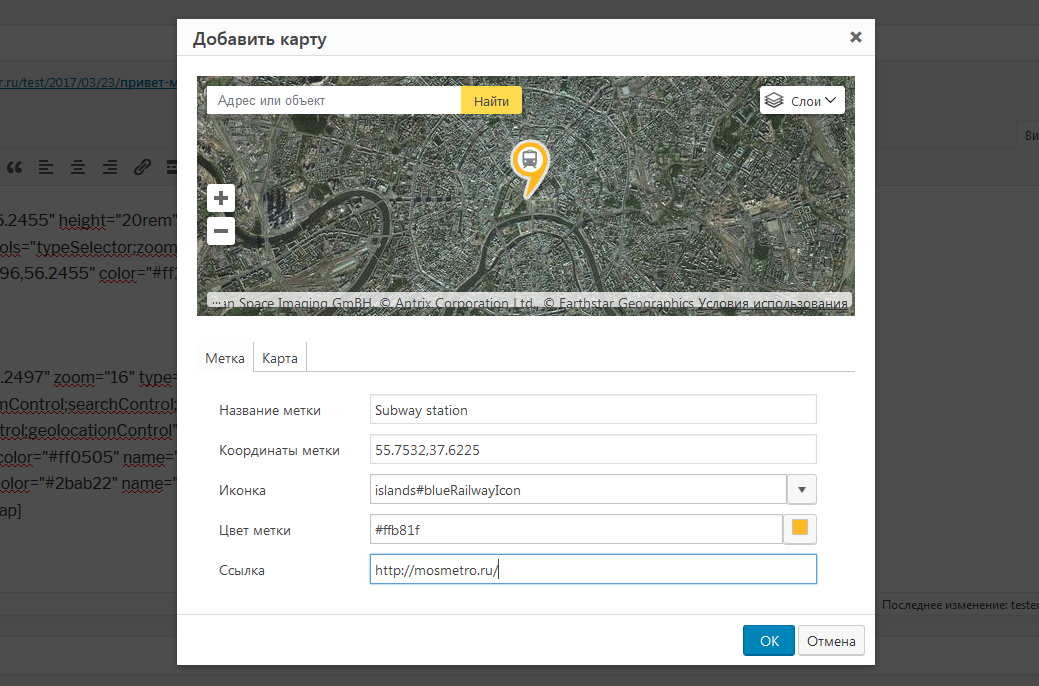
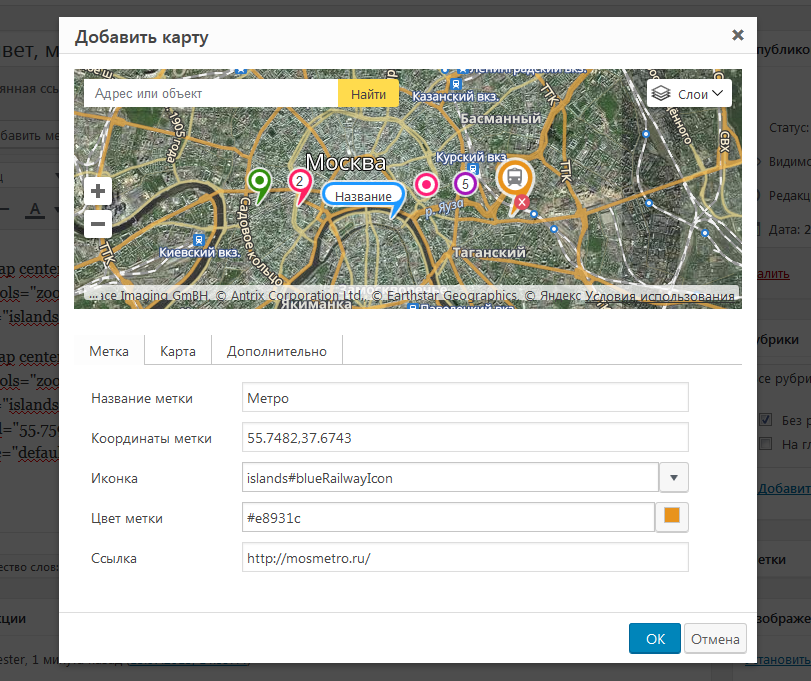
v 0.4.1

diff --git a/trunk/js/btn.js b/trunk/js/btn.js
@@ -1,4 +1,4 @@
-var script = document.createElement('script');
+ var script = document.createElement('script');
     script.src = "https://api-maps.yandex.ru/2.1/?lang="+tinymce.util.I18n.getCode();    
     script.setAttribute('type', 'text/javascript');
     document.getElementsByTagName('head')[0].appendChild(script);
@@ -69,7 +69,14 @@ var script = document.createElement('script');
             ym[mapselector].wheelzoom='scrollzoom="0"';
 
         }
-
+        
+        if ($("#mapcontainer").val()!==undefined) {
+        	if ($("#mapcontainer").val()!=="") {
+	            ym[mapselector].container='container="'+$("#mapcontainer").val()+'"';
+	            console.log($("#mapcontainer").val());
+        	}
+        }
+        
         ym[mapselector].zoom=mapzoom;
         ym[mapselector].center=[coordaprox(mapcenter)];
         ym[mapselector].maptype=maptype;       
@@ -178,12 +185,15 @@ var script = document.createElement('script');
         //url argument holds the absolute url of our plugin directory
         init : function(ed, url) {
 
+
+
             //add new button    
             ed.addButton("yamap", {
                 title : yamap_object.YaMap,
                 //cmd : "yamap_command",
                 type: 'menubutton',
                 plugins: 'colorpicker',
+
                 image : url+ "/img/placeholder.svg",
                 menu: [
                 {
@@ -423,7 +433,6 @@ var script = document.createElement('script');
                         width : 700,
                         height : 560, 
 
-
                         body: [
                          {
                         type   : 'container',
@@ -554,7 +563,7 @@ var script = document.createElement('script');
                                                 id     : 'ctrlhelper',                        
                                                 minWidth : 598,   
                                                 html   : '<div id="addcontrol" style="text-align: right;"><a data-control="typeSelector">'+yamap_object.type+'</a>, <a data-control="zoomControl">'+yamap_object.zoom+'</a>, <a data-control="searchControl">'+yamap_object.search+'</a>, <a data-control="routeButtonControl">'+yamap_object.route+'</a>, <a data-control="rulerControl">'+yamap_object.ruler+'</a>, <a data-control="trafficControl">'+yamap_object.traffic+'</a>, <a data-control="fullscreenControl">'+yamap_object.fullscreen+'</a>, <a data-control="geolocationControl">'+yamap_object.geolocation+'</a></div>'
-                                                },
+                                                },                                                
                                                 {
                                                     type: 'checkbox',
                                                     checked: true,
@@ -564,6 +573,43 @@ var script = document.createElement('script');
                                                     onaction: mapdatechange(),
 
                                                 },
+                                                {
+                                                    type: 'textbox',
+                                                    name: 'mapcontainer',
+                                                    label: yamap_object.MapContainerID,
+                                                    id: 'mapcontainer',
+                                                    value: '', 
+                                                    tooltip: yamap_object.MapContainerIDTip,
+                                                    onaction: mapdatechange(),
+                                                },
+                                                ]
+                                        },
+
+
+                                     
+
+
+                                    ]
+
+                                },
+                                {
+                                    type: 'panel',
+                                    title: yamap_object.Extra,
+                                    items: [
+                                        {
+                                            type: 'form',
+                                            name: 'form2',
+                                            minWidth : 598,
+
+                                            items: [
+                                                {
+                                                type   : 'container',
+                                                name   : 'addcontrol',
+                                                                       
+                                                minWidth : 598,   
+                                                html   : yamap_object.ExtraHTML,
+                                            },
+                                                
                                                 ]
                                         },
 
@@ -584,13 +630,7 @@ var script = document.createElement('script');
                             markchange();
                             var dialogArguments = ed.windowManager.getParams();
 
-                             if(e.data.scrollZoom === false) {
-                                scrollzoom=' scrollzoom="0"';
-                                
-                             } 
-                             else {
-                                scrollzoom='';
-                             } 
+                             
 
                             contentplacemarks = ''; 
                             yamapnumber='map1'; 
@@ -599,7 +639,7 @@ var script = document.createElement('script');
 
                             } 
                             
-                            ed.insertContent( '&#91;yamap center="' + ym[yamapnumber].center + '" height="' + ym[yamapnumber].height + '" zoom="' + ym[yamapnumber].zoom + '" ' + ym[yamapnumber].wheelzoom + ' type="' + ym[yamapnumber].maptype + '" controls="' + ym[yamapnumber].ctrl + '"&#93; '+contentplacemarks+' &#91;/yamap&#93;');
+                            ed.insertContent( '&#91;yamap center="' + ym[yamapnumber].center + '" height="' + ym[yamapnumber].height + '" zoom="' + ym[yamapnumber].zoom + '" ' + ym[yamapnumber].wheelzoom + ym[yamapnumber].container + ' type="' + ym[yamapnumber].maptype + '" controls="' + ym[yamapnumber].ctrl + '"&#93; '+contentplacemarks+' &#91;/yamap&#93;');
                         }
                     });
                 mapdatechange();

diff --git a/trunk/yamap.php b/trunk/yamap.php
@@ -5,7 +5,7 @@
  * Plugin URI:  www.yhunter.ru/portfolio/dev/yamaps/
  * Author URI:  www.yhunter.ru
  * Author:      yhunter
- * Version:     0.4.0
+ * Version:     0.4.1
  *
  *
  * License:     GPL2
@@ -73,12 +73,24 @@ function yaplacemark_func($atts) {
                             });  
 	';
 
-	if (trim($atts["url"])<>"") {
-		$yaplacemark.=' 
-			placemark'.$yaplacemark_count.'.events.add("click", function () {
-                location.href="'.$atts["url"].'";
-            });
-		';
+	$atts["url"]=trim($atts["url"]);
+	if (($atts["url"]<>"")and($atts["url"]<>"0")) {
+		$marklink=$atts["url"];
+		settype($marklink, "integer");
+		if ($marklink<>0) {
+			$marklink=get_the_permalink($atts["url"]);
+		}
+		else {
+			$marklink=$atts["url"];
+		}
+
+
+			$yaplacemark.=' 
+				placemark'.$yaplacemark_count.'.events.add("click", function () {
+	                location.href="'.$marklink.'";
+	            });
+			';
+
 	}
 	
 
@@ -95,6 +107,7 @@ function yamap_func($atts, $content){
 		'height' => '20rem',
 		'controls' => '',
 		'scrollzoom' => '1',
+		'container' => '',
 
 	), $atts );
 	global $yaplacemark_count;
@@ -118,13 +131,23 @@ function yamap_func($atts, $content){
 	
 	$placemarkscode=str_replace("&nbsp;", "", strip_tags($content));
 
+	$atts["container"]=trim($atts["container"]);
+	if ($atts["container"]<>"") {
+		$mapcontainter=$atts["container"];
+		$mapcontainter=str_replace("#", "", $mapcontainter);
+	}
+	else {
+		$mapcontainter='yamap'.$maps_count;
+	}
+	
+
     $yamap.='
 
 						<script type="text/javascript">
                         ymaps.ready(init);
                  
                         function init () {
-                            var myMap'.$maps_count.' = new ymaps.Map("yamap'.$maps_count.'", {
+                            var myMap'.$maps_count.' = new ymaps.Map("'.$mapcontainter.'", {
                                     center: ['.$atts["center"].'],
                                     zoom: '.$atts["zoom"].',
                                     type: "'.$atts["type"].'",
@@ -145,8 +168,9 @@ function yamap_func($atts, $content){
 
                         }
                     </script>
-                    <div class="mist" id="yamap'.$maps_count.'"  style="position: relative; min-height: '.$atts["height"].'; margin-bottom: 1rem;"></div>
+                    
     ';
+    if ($atts["container"]=="") $yamap.='<div id="'.$mapcontainter.'"  style="position: relative; min-height: '.$atts["height"].'; margin-bottom: 1rem;"></div>';
 
     if ($count_content>=1) $maps_count++;
     return $yamap; 
@@ -184,7 +208,7 @@ function yamap_plugin_scripts($plugin_array)
 							'MarkerIcon' => __('Icon', 'yamaps'),
 							'BlueOnly' => __('Blue only', 'yamaps'),
 							'MarkerUrl' => __('Link', 'yamaps'),
-							'MarkerUrlTip' => __('Placemark hyperlink url', 'yamaps'),
+							'MarkerUrlTip' => __('Placemark hyperlink url or post ID', 'yamaps'),
 							'MapHeight' => __('Map height', 'yamaps'),
 							'MarkerName' => __('Placemark name', 'yamaps'),
 							'MarkerNameTip' => __('Text for hint or icon content', 'yamaps'),
@@ -202,7 +226,13 @@ function yamap_plugin_scripts($plugin_array)
 							'traffic' => __('Traffic', 'yamaps'),
 							'fullscreen' => __('Full screen', 'yamaps'),
 							'geolocation' => __('Geolocation', 'yamaps'),
-							'MarkerColor' => __('Marker color', 'yamaps'));
+							'MarkerColor' => __('Marker color', 'yamaps'),
+							'MapContainerID' => __('Put in ID', 'yamaps'),
+							'MapContainerIDTip' => __('Do not create a block in the content. Use the existing block of the WP theme with the specified ID', 'yamaps'),
+							'Extra' => __('Extra', 'yamaps'),
+							'ExtraHTML' => __('<div style="position: relative; display: block; width: 100%; white-space: normal !important;"><h2 style="color: #444;font-size: 18px;font-weight: 600;line-height: 36px;">Want other icon types?</h2>Additional types of icons can be found by the link in the <a href="https://tech.yandex.com/maps/doc/jsapi/2.1/ref/reference/option.presetStorage-docpage/ " style="white-space: normal">Yandex.Map documentation</a>.</div><div style="position: relative; display: block; width: 100%; white-space: normal !important;"><h2 style="color: #444;font-size: 18px;font-weight: 600;line-height: 36px;">Do you like YaMaps plugin?</h2>You can support its development by donate (<a href="https://money.yandex.ru/to/41001278340150" style="white-space: normal">Yandex</a>, <a href="https://www.paypal.me/yhunter" style="white-space: normal">PayPal</a>) or just leave a positive feedback in the <a href="https://wordpress.org/support/plugin/yamaps/reviews/" style="white-space: normal">plugin repository</a>. It\'s very motivating!</div><div style="position: relative; display: block; width: 100%; white-space: normal !important;"><h2 style="color: #444;font-size: 18px;font-weight: 600;line-height: 36px;">Any questions?</h2>Ask in the comments <a href="https://www.yhunter.ru/portfolio/dev/yamaps/" style="white-space: normal">on the plug-in\'s page</a>, <a href="https://wordpress.org/support/plugin/yamaps" style="white-space: normal">WP support forum</a> or <a href="https://github.com/yhunter-ru/yamaps/issues" style="white-space: normal">on GitHub</a>.</div>', 'yamaps')
+
+						);
 
 
 
@@ -232,6 +262,20 @@ function register_buttons_editor($buttons)
 
 
 add_filter("mce_buttons", "register_buttons_editor");
+
+add_action('admin_head', 'yamaps_custom_fonts');
+
+function yamaps_custom_fonts() {
+  echo '<style>
+    .mce-container ymaps {
+    	//Исправляем проблему со съехавшим шрифтом в Stretchy метке на карте в редакторе
+    	font-family: "Source Sans Pro",HelveticaNeue-Light,"Helvetica Neue Light","Helvetica Neue",Helvetica,Arial,"Lucida Grande",sans-serif !important;
+    	font-size: 13px !important;
+    }
+  </style>';
+}
+
+
 
 
 ?>
